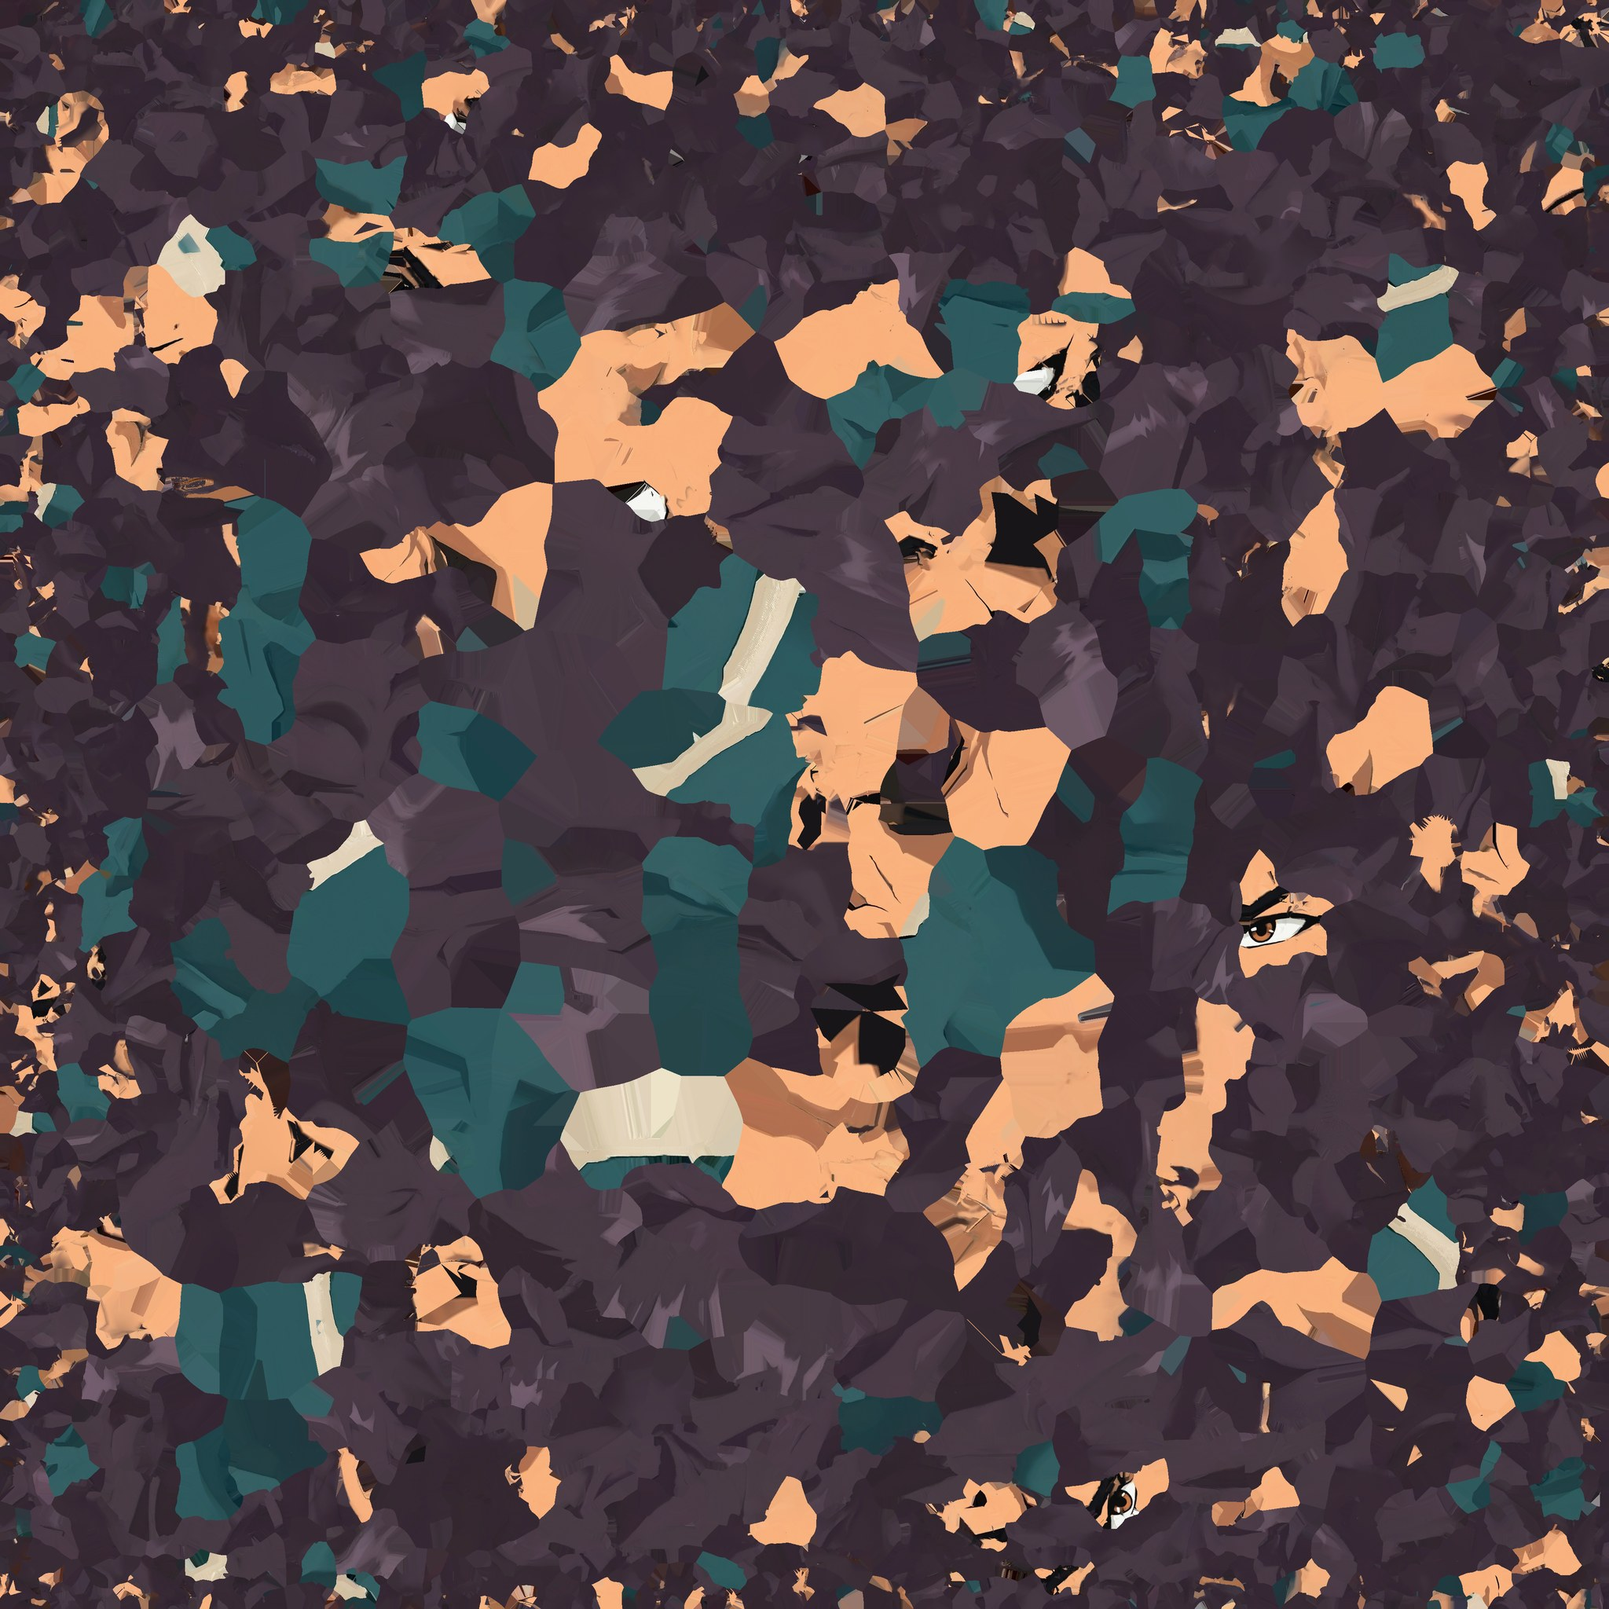
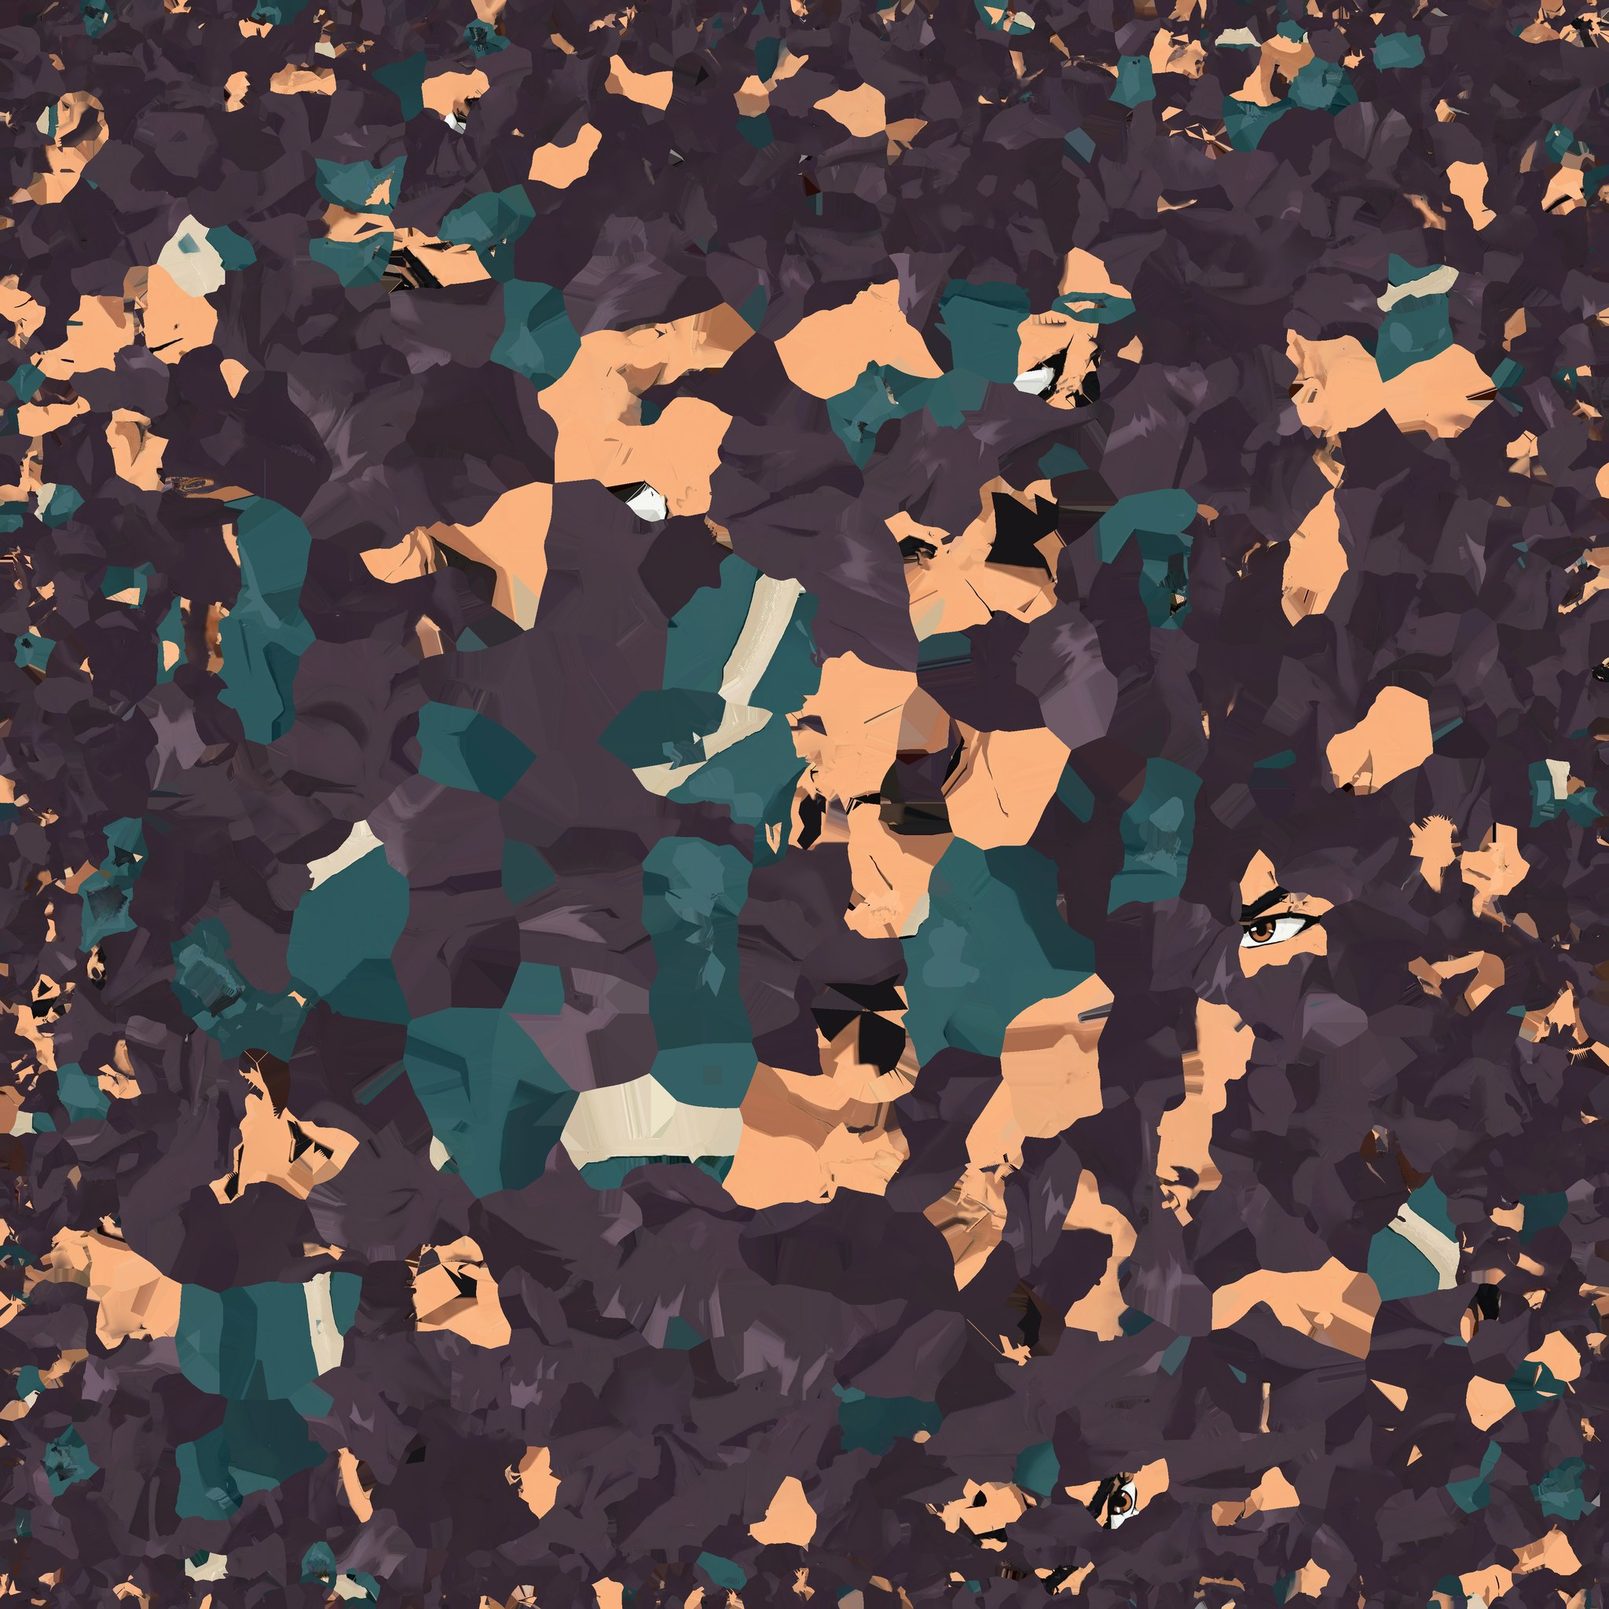
Anteprima di Ren: il colletto non si stacca piu' dal gilet dietro il collo
tools/ren_collar.py (chiamato da ren_head.py): una gonnellina dal bordo
basso del colletto nuovo al gilet del corpo, appena sotto la sua
superficie, chiude il buco che si vedeva dall'alto e da dietro; la
fascia bassa del colletto sul gilet prende la pittura del gilet, cosi'
il bordo frastagliato non si vede piu'.

Claude-Session: https://claude.ai/code/session_014XUVKvWBodq3kjfPiKyGRo

diff --git a/tools/ren_collar.py b/tools/ren_collar.py
@@ -1,0 +1,105 @@
+#!/usr/bin/env python3
+"""The new head's collar joined to the body's vest (8/11/2026, Denis: "il suo vestito da dietro il collo si stacca"):
+called by tools/ren_head.py on the head it builds.
+
+The bust Meshy made from the head's sheet is cut above the shoulders: its collar's bottom edge stands off the body's
+vest (9 mm on average), and the body's triangles under the new head are hidden (ren_head.py, hide): from above and
+behind, between the two, one saw into the body (a black hole under the collar's back), and the collar's jagged bottom
+band, in the head's own teal, sat on the vest in another. Here:
+  - a skirt: from each point of the head's bottom edge (the boundary of the head mesh under SKIRT_Y m) to the nearest
+    point of the body's kept surface, SKIRT_IN m under it (where the vest is there, it hides the skirt; where there is a
+    gap, the skirt fills it), in one flat colour (SKIRT_RGB: the vest's back as the body's toon light shows it, the head's
+    light being flat) from a block of the texture outside every piece; skinned at the top as the edge, at the bottom as
+    the body's nearest vertex; its outline pushed back (SKIRT_LINE);
+  - the head's texels within BAND_D of the vest (under SKIRT_Y + .01 m) take the body's own paint at the nearest point
+    (the drawing's, OUT_DIR/<name>_painted.jpg): the collar's bottom band is the vest's colour, its jagged edge gone.
+"""
+import json, os
+import numpy as np
+from PIL import Image, ImageDraw
+from scipy import ndimage
+from scipy.spatial import cKDTree
+
+SKIRT_Y, SKIRT_IN, SKIRT_MAX, SKIRT_LINE = 1.50, .0015, .04, .1
+SKIRT_RGB = (56, 90, 92)
+BAND_D = .010
+NECK_AXIS = (.006, -.01)   # (x, z) of the neck's axis: the skirt faces away from it
+SAMPLE = .0015             # the body's surface sampled every that many m (the nearest points)
+
+
+def _texels(uv, A, TS):
+    """A triangle's texels (n x 2: col, row) and their 3D points (uv: its corners in texels; A: its corners)."""
+    lo = np.floor(uv.min(0)).astype(int); hi = np.ceil(uv.max(0)).astype(int)
+    xs, ys = np.meshgrid(np.arange(lo[0], hi[0] + 1), np.arange(lo[1], hi[1] + 1)); px = np.stack([xs.ravel() + .5, ys.ravel() + .5], 1)
+    T = np.array([uv[1] - uv[0], uv[2] - uv[0]]).T
+    if abs(np.linalg.det(T)) < 1e-9: return np.zeros((0, 2), int), np.zeros((0, 3))
+    b = np.linalg.solve(T, (px - uv[0]).T).T; w = np.c_[1 - b.sum(1), b]; ins = (w >= -1e-3).all(1)
+    q = np.floor(px[ins]).astype(int); g = (q >= 0).all(1) & (q < TS).all(1)
+    return q[g], (w[ins] @ A)[g]
+
+
+def collar_join(Q, N, UV, I, J, W, lb, tex, PB, IB, UVB, JB, WB, keep, paint):
+    """See above. Q, N, UV, I, J, W, lb: the head (vertices, normals, uvs, triangles, skin joints and weights, outline
+    push); tex: its texture (h x w x 3 float, painted in place: the band); PB, IB, UVB, JB, WB: the body's package
+    (positions, triangles, uvs, skin); keep: the body's triangles kept (not hidden); paint: the body's paint (h x w x 3) or
+    None. Returns (Q, N, UV, I, J, W, lb with the skirt added, the flat block: (row, col, half size) to paint SKIRT_RGB in
+    the texture once it is padded)."""
+    TS = tex.shape[0]; IK = IB[keep]; Cb = PB[IK].mean(1)
+    near = IK[(Cb[:, 1] > SKIRT_Y - .14) & (Cb[:, 1] < SKIRT_Y + .06)]
+    pts, tri, bar = [], [], []
+    for k, t in enumerate(near):   # (the body's surface near the neck, sampled: points, their triangle, barycentrics)
+        A = PB[t]; e = max(np.linalg.norm(A[1] - A[0]), np.linalg.norm(A[2] - A[0]), np.linalg.norm(A[2] - A[1])); n = max(2, int(e / SAMPLE))
+        a, b = np.meshgrid(np.arange(n + 1), np.arange(n + 1)); m = a + b <= n; a, b = a[m], b[m]
+        w = np.stack([a, b, n - a - b], 1) / n; pts.append(w @ A); tri.append(np.full(len(w), k)); bar.append(w)
+    pts, tri, bar = np.concatenate(pts), np.concatenate(tri), np.concatenate(bar); tree = cKDTree(pts)
+    fn = np.cross(PB[near[:, 1]] - PB[near[:, 0]], PB[near[:, 2]] - PB[near[:, 0]]); fn /= np.maximum(np.linalg.norm(fn, axis=1, keepdims=True), 1e-12)
+    ax = np.array([NECK_AXIS[0], 0, NECK_AXIS[1]]); ctr = PB[near].mean(1)
+    s = np.sign(((ctr - ax)[:, [0, 2]] * fn[:, [0, 2]]).sum(1)); fn *= np.where(s == 0, 1, s)[:, None]   # (outward)
+    # the head's bottom edge: the boundary of the welded mesh under SKIRT_Y
+    _, first, weld = np.unique(np.round(Q / 1e-6).astype(np.int64), axis=0, return_index=True, return_inverse=True); weld = weld.ravel()
+    T = weld[I]; E = np.sort(np.concatenate([T[:, [0, 1]], T[:, [1, 2]], T[:, [2, 0]]]), 1)
+    Eu, cnt = np.unique(E, axis=0, return_counts=True); bnd = Eu[cnt == 1]; Wp = Q[first]
+    bnd = bnd[(Wp[bnd[:, 0], 1] < SKIRT_Y) & (Wp[bnd[:, 1], 1] < SKIRT_Y)]
+    bv = np.unique(bnd); d, j = tree.query(Wp[bv]); ok = d < SKIRT_MAX; vmap = {int(v): k for k, v in enumerate(bv)}
+    bt = near[tri[j]]; nearest_v = bt[np.arange(len(bt)), np.argmax(bar[j], 1)]
+    # the flat block: the middle of the texture's biggest square outside every piece
+    mask = Image.new('L', (TS, TS), 0); dr = ImageDraw.Draw(mask)
+    for tr in UV[I] * TS: dr.polygon([tuple(v) for v in tr], fill=255)
+    free = ~ndimage.binary_dilation(np.asarray(mask) > 0, iterations=6)
+    dt = ndimage.distance_transform_cdt(free, metric='chessboard'); r0, c0 = np.unravel_index(np.argmax(dt), dt.shape); blk = int(min(dt[r0, c0] - 2, 24))
+    uv_flat = np.array([(c0 + .5) / TS, (r0 + .5) / TS])
+    n0, nb, rep = len(Q), len(bv), first[bv]
+    Q2 = np.r_[Q, Q[rep], pts[j] - fn[tri[j]] * SKIRT_IN]; N2 = np.r_[N, N[rep], fn[tri[j]]]; UV2 = np.r_[UV, np.tile(uv_flat, (2 * nb, 1))]
+    J2 = np.r_[J, J[rep], JB[nearest_v]]; W2 = np.r_[W, W[rep], WB[nearest_v]]; lb2 = np.r_[lb, np.full(2 * nb, SKIRT_LINE)]
+    tris = []
+    for a, b in bnd:
+        if not (ok[vmap[a]] and ok[vmap[b]]): continue
+        A_, B_, A2, B2 = n0 + vmap[a], n0 + vmap[b], n0 + nb + vmap[a], n0 + nb + vmap[b]
+        nrm = np.cross(Q2[B_] - Q2[A_], Q2[A2] - Q2[A_]); c = (Q2[A_] + Q2[B_]) / 2
+        if (nrm[[0, 2]] * (c - ax)[[0, 2]]).sum() < 0: A_, B_, A2, B2 = B_, A_, B2, A2   # (facing away from the neck's axis)
+        tris += [(A_, B_, B2), (A_, B2, A2)]
+    I2 = np.r_[I, np.array(tris, np.int64).reshape(-1, 3)]
+    # the band: the head's texels on the vest take the vest's paint
+    n_tx = 0
+    if paint is not None:
+        PS = paint.shape[0]; C = Q[I].mean(1); cand = np.nonzero(C[:, 1] < SKIRT_Y + .01)[0]
+        dc, _ = tree.query(C[cand]); cand = cand[dc < 2 * BAND_D]
+        for k in cand:
+            q, p3 = _texels(UV[I[k]] * TS, Q[I[k]], TS)
+            if not len(q): continue
+            dd, jj = tree.query(p3); m = dd < BAND_D
+            if not m.any(): continue
+            t3 = near[tri[jj[m]]]; uvb = (UVB[t3] * bar[jj[m]][:, :, None]).sum(1)
+            tex[q[m, 1], q[m, 0]] = paint[np.clip((uvb[:, 1] * PS).astype(int), 0, PS - 1), np.clip((uvb[:, 0] * PS).astype(int), 0, PS - 1)]; n_tx += int(m.sum())
+    print('collar: a skirt of %d triangles from the head\'s bottom edge (%d points, %.0f mm from the vest on average) to the '
+          'vest; %d texels of the collar\'s band on the vest in its paint' % (len(tris), nb, 1000 * d[ok].mean() if ok.any() else 0, n_tx))
+    return Q2, N2, UV2, I2, J2, W2, lb2, (r0, c0, blk)
+
+
+def load_body(pkg):
+    """The body's package (tools/meshy_pack.py): positions, triangles, uvs, skin joints and weights."""
+    name = os.path.basename(os.path.normpath(pkg))
+    m = json.load(open(os.path.join(pkg, name + '.json'))); B = open(os.path.join(pkg, name + '.bin'), 'rb').read(); me = m['mesh']
+    f = lambda a, dt=np.float32: np.frombuffer(B, dt, a[1], a[0])
+    return (f(me['pos']).reshape(-1, 3).astype(np.float64), f(me['idx'], np.uint16 if me['verts'] < 65536 else np.uint32).reshape(-1, 3).astype(np.int64),
+            f(me['uv']).reshape(-1, 2).astype(np.float64), f(me['jnt'], np.uint8).reshape(-1, 4), f(me['wgt']).reshape(-1, 4))

diff --git a/tools/ren_head.py b/tools/ren_head.py
@@ -517,6 +517,12 @@ def main(bust, pkg, out, texture=None):
         n0 = len(Q); Q = np.r_[Q, plug['pos']]; Nq = np.r_[Nq, plug['nor']]; UVq = np.r_[UVq, plug['uv']]
         top = np.r_[top, top[plug['src']]]; tw = np.r_[tw, tw[plug['src']]]
         lb_line = np.r_[lb_line, np.full(len(plug['pos']), PLUG_LINE)]; Ik = np.r_[Ik, plug['tri'] + n0]
+    # the collar joined to the vest (tools/ren_collar.py): a skirt from the head's bottom edge to the vest, the collar's band
+    # on the vest in the vest's paint
+    from ren_collar import collar_join, load_body
+    PB_, IB_, UVB_, JB_, WB_ = load_body(pkg); keep_b = np.ones(len(IB_), bool); keep_b[hide.astype(np.int64)] = False
+    pp = os.path.join(out, name + '_painted.jpg'); paint_b = np.asarray(Image.open(pp).convert('RGB')).astype(np.float64) if os.path.exists(pp) else None
+    Q, Nq, UVq, Ik, top, tw, lb_line, flat_blk = collar_join(Q, Nq, UVq, Ik, top, tw, lb_line, t, PB_, IB_, UVB_, JB_, WB_, keep_b, paint_b)
     nv = len(Q)
     head = {'v': 1, 'verts': nv, 'tris': len(Ik), 'scale': round(s, 5), 'pos': put(Q.astype(np.float32)), 'nor': put(Nq.astype(np.float32)), 'uv': put(UVq.astype(np.float32)),
             'jnt': put(top.astype(np.uint8)), 'wgt': put(tw.astype(np.float32)), 'idx': put(Ik.astype(np.uint32 if nv > 65535 else np.uint16)), 'hide': put(hide), 'lb': put(lb_line.astype(np.float32))}
@@ -532,6 +538,8 @@ def main(bust, pkg, out, texture=None):
     inside = ndimage.binary_dilation(np.asarray(mimg) > 0, iterations=2)
     _, (gy, gx) = ndimage.distance_transform_edt(~inside, return_indices=True); t = t[gy, gx]
     print('texture: %d%% of its texels in the head\'s pieces, the rest padded' % round(100 * inside.mean()))
+    from ren_collar import SKIRT_RGB
+    r0, c0, blk = flat_blk; t[r0 - blk:r0 + blk + 1, c0 - blk:c0 + blk + 1] = SKIRT_RGB   # (the skirt's flat colour: after the padding)
     im = Image.fromarray(t.round().astype(np.uint8))
     if max(im.size) > HEAD_TEX: im = im.resize((HEAD_TEX, HEAD_TEX), Image.LANCZOS)
     im.save(os.path.join(out, name + '_head.jpg'), quality=88, optimize=True)

diff --git a/docs/HANDOFF.md b/docs/HANDOFF.md
@@ -144,6 +144,7 @@ Cose notate nelle revisioni; non costruirle finché Denis non lo chiede.
   - Tempie e angoli degli occhi (8/11, versione 38, dopo "fai tu come hai fatto fin'ora"): in `ren_eyes.py` (1) `temples()`: la pelle sotto le ciocche delle tempie, tra l'angolo esterno dell'occhio e l'orecchio (`TEMPLE_ZONE`), vista girata di 55° per lato (`TEMPLE_VIEW`), diventa pelle liscia (riempimento armonico): via le striature chiare dei texel stirati, le punte di ciocca dipinte o affondate e le sfaccettature; le ciocche appoggiate lì (texel viola o scuri) restano capelli (provato senza questo filtro: a -x una ciocca vicino all'occhio diventava una macchia color pelle); (2) le righe sottili e ripide (ciocche dipinte) tra la fine del sopracciglio e la coda delle ciglia (`STREAK`: più sottili di 0,7 mm, più ripide di 35°, non attaccate al bianco dell'occhio) diventano pelle; ciglia e sopracciglio restano. Provato e scartato: dipingere color pelle i triangoli sotto l'arcata (che guardano in giù): si mangiava la coda delle ciglia. Geometria uguale alla versione 37, quindi tempo per fotogramma invariato.
   - Capelli sul viso (8/11, versione 39; Denis: "ora fai come si deve i capelli", poi "intendevo i capelli in faccia, quelli sopra vanno bene così"): confrontata di fronte la testa col foglio (pixel di capelli nel foglio dove la testa mostrava pelle: 13,5 cm², ora 4 cm²), alla frangia dal foglio mancavano le ciocche che le regole della maschera scartavano: la parte bassa della ciocca lunga tra gli occhi (scende fino al ponte del naso, come nel foglio), la ciocca sopra la metà esterna del sopracciglio destro e quelle sopra la fine del sopracciglio sinistro. Ora `ren_fringe.py` le prende da poligoni messi a mano sul foglio (`EXTRA_LOCKS`, in pixel della vista di fronte; dentro, solo i colori dei capelli del foglio). La fronte sotto le ciocche (vista di lato, nello spazio tra le ciocche e la pelle) è dipinta col nero d'ombra dei capelli (`UNDER_LOCKS`), non più pelle. Corretta anche una macchia color pelle a V sulla nuca: la pittura della fronte dal foglio prendeva anche i triangoli del retro della testa visti attraverso il buco tra le sopracciglia (`BACK`: niente più di 1 cm dietro il viso). Provati e scartati: i capelli sopra coi 3 toni piatti del foglio calcolati dalla forma (ombre sotto le ciocche e luce dall'alto, `ren_hair.py` tenuto fuori dal repository: Denis voleva solo quelli sul viso); poligoni per le ciocche delle tempie giù lungo le guance (il cuscinetto, piatto, di tre quarti diventava una striscia). Cuscinetto: 5.648 triangoli (prima 3.508); tempo per fotogramma in software 59,6 ms contro 60,0 della versione 38 (nel rumore, 6 misure alternate).
   - Viso di lato omogeneo (8/11, versione 40; Denis sulla 39, con le zone cerchiate: "di lato vedo che il viso si deforma, non va bene, deve essere omogeneo"): di tre quarti la sagoma della guancia lontana aveva una gobba e una tacca accanto all'occhio (con il contorno nero a scalini), e sulle tempie c'erano strisce. Causa: le ciocche che Meshy aveva steso piatte sulle tempie erano state affondate di 12 mm sotto la pelle (`temple_locks`, notte dell'8/11), e i triangoli tra i punti affondati e quelli rimasti erano lunghi fino a 4 cm e ripiegati verso l'interno. Ora `temple_smooth()` in `ren_head.py` (`TEMPLE_SMOOTH`): i punti di quelle ciocche e quelli intorno (2 giri di vicini dentro `TEMPLE` allargato di 8 mm, `TEMPLE_GROW`, `TEMPLE_RINGS`; non gli occhi) sono rimessi con un riempimento biarmonico sulla mesh a partire dai punti intorno, che restano fermi: la tempia è una superficie liscia che si raccorda con guancia, orecchio e capelli, senza pieghe; la sua pittura resta pelle (`temples()`). Provato e scartato: allargare la zona fino al sopracciglio dietro la coda dell'occhio (`TEMPLE_UP`): le ciocche che pendono davanti alla tempia venivano dipinte a pezzi color pelle. Stessi vertici; tempo per fotogramma 61,3 ms contro 62,5 della versione 39 (nel rumore).
+  - Colletto dietro il collo (8/11, versione 41; Denis: "il suo vestito da dietro il collo si stacca"): il bordo basso del colletto della testa nuova sta in media 1 cm sopra il gilet del corpo, e sotto la testa i triangoli del corpo sono nascosti: dall'alto e da dietro, fra i due, si vedeva dentro il corpo (un buco nero sotto il colletto) e la fascia bassa del colletto, frastagliata, nel teal della testa, stava sul gilet. Ora `tools/ren_collar.py` (chiamato da `ren_head.py` alla fine): una gonnellina dal bordo basso della testa (sotto 1,50 m) al punto più vicino del gilet rimasto, 1,5 mm sotto la sua superficie (dove c'è il gilet lo copre, dove c'è un buco lo chiude), in un colore piatto (`SKIRT_RGB`, il teal del gilet come lo mostra la sua luce cartoon: la testa ha luce piatta) preso da un blocco della texture fuori da ogni pezzo (dipinto dopo il riempimento dei bordi; abbastanza grande che il JPEG non ne cambi il colore); e i texel della testa a meno di 1 cm dal gilet prendono la pittura del gilet in quel punto (`<nome>_painted.jpg`). Provato e scartato: rimostrare i triangoli del colletto vecchio sotto il buco (199: tutti sporgevano dal colletto nuovo). +240 triangoli; tempo per fotogramma nel rumore (58,3 ms contro 61,3, 4 misure).
   - `tools/paint_head.py` (pittura della testa dalle 3 viste) è provato ma non usato: proiettato, il disegno si sdoppiava sugli occhi; la texture di Meshy è più pulita.
   - Tempo per fotogramma nell'anteprima, in software: 63,0 ms contro 57,7 della versione 16 (+9%, media di 6 misure alternate; la testa ha 14.000 triangoli più il suo contorno). Una testa da 12.000 triangoli avrebbe i capelli più spigolosi dietro: scartata. Il gioco non cambia (look spento).
 - `paint_from_drawing.py` ora riempie anche gli spazi tra i pezzi della texture col colore del pezzo vicino: i vecchi colori lì si vedevano come crepe lungo le cuciture.
@@ -155,4 +156,4 @@ Cose notate nelle revisioni; non costruirle finché Denis non lo chiede.
 - Per dopo (annotate, non fatte): i fogli del corpo che Denis ha mandato l'8/11 (`docs/ref/personaggi/ren_busto_3viste.png`, `ren_gambe_3viste.png`: destra, fronte, sinistra; `ren_retro.png`: tutto il corpo da dietro; il foglio della testa che ha rimandato è identico a `ren_testa_3viste.png`) per rifare o ridipingere il corpo dai lati e da dietro (fasce con il polsino scuro, stivali, pantaloni, code della fascia arancione), oggi dipinto solo dalla vista di fronte di `ren.png`; l'ombra nera sotto il mento come nel foglio (una V spessa sul collo, sotto la mascella; nel foglio c'è in tutte e tre le viste), da proporre a Denis prima di farla; in guardia la testa alzata di 20° invece di 12° (`headUp` del look: provato in una copia, con 20° si vedono entrambi gli occhi sopra il pugno, a 28° sembra guardare in alto; è una scelta di posa, da decidere con Denis); stesso metodo delle 3 viste per Kael, se Denis fa il suo foglio; se Denis vuole punte dei capelli ancora più lunghe, un'altra prova Meshy (30 crediti; alleggerire il modello non le arrotonda: a 60.000 e a 16.000 triangoli la sagoma è la stessa).
 
 ## Prossimo passo
-Denis guarda l'anteprima (versione 40: il viso di lato liscio, senza gobbe né tacche alle tempie; le ciocche sul viso come nel foglio, la ciocca lunga tra gli occhi, gli occhi rifatti puliti e uguali; i capelli sopra come prima) con la testa nuova dal suo foglio, le tempie pulite, il colletto rigido, le fasce e gli stivali come il disegno. Se gli piace: accendere il look nel gioco con i 3 passi scritti sopra ("Per accendere il look nel gioco"), test, ripubblicare gioco e app. Poi: Kael di Meshy (modello dal suo disegno + scheletro; le animazioni si riusano), mostrando prima saldo e costo.
+Denis guarda l'anteprima (versione 41: il colletto unito al gilet dietro il collo; il viso approvato: "finalmente la faccia è buona") con la testa nuova dal suo foglio, le tempie pulite, il colletto rigido, le fasce e gli stivali come il disegno. Se gli piace: accendere il look nel gioco con i 3 passi scritti sopra ("Per accendere il look nel gioco"), test, ripubblicare gioco e app. Poi: Kael di Meshy (modello dal suo disegno + scheletro; le animazioni si riusano), mostrando prima saldo e costo.
